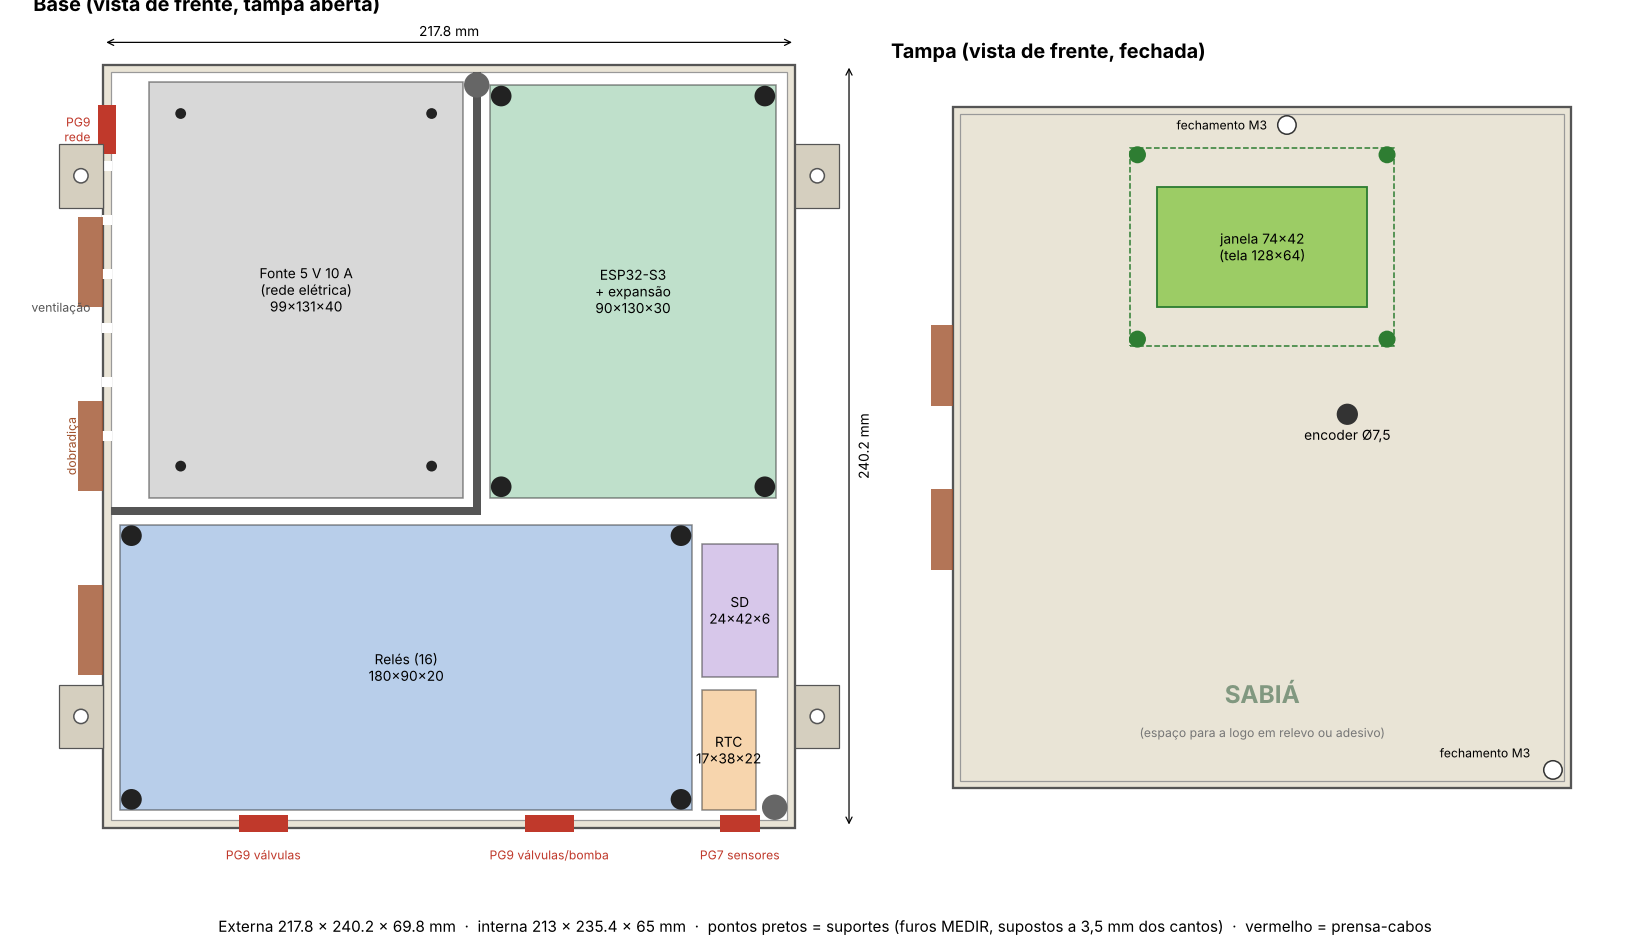
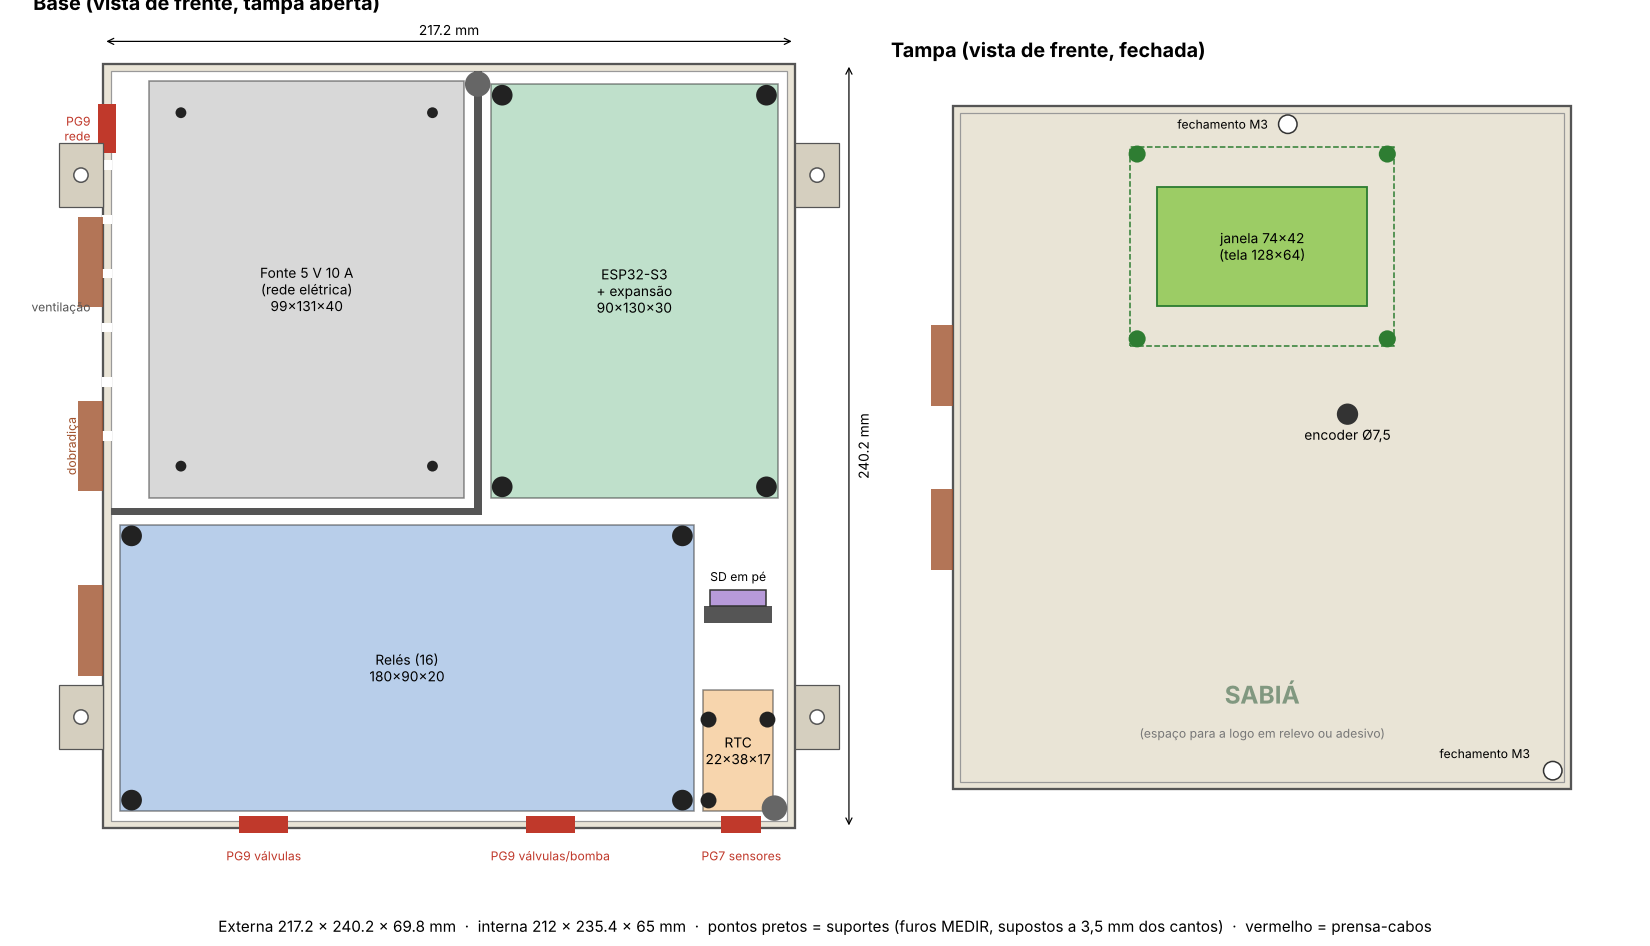
feat: microSD em pé e RTC parafusado na caixa
Claude-Session: https://claude.ai/code/session_01LaK3UAtjrPCuA6B4eXAfcY

diff --git a/tools/leiaute_caixa.py b/tools/leiaute_caixa.py
@@ -6,11 +6,11 @@ import matplotlib.pyplot as plt
 from matplotlib.patches import Rectangle, Circle
 # mesmos parâmetros do caixa.scad
 t=2.4; folga=3; div=2.4; D_in=65; margem=12
-rele=(180,90,20); fonte=(99,131,40); expan=(90,130,30); rtc=(17,38,22); sd=(24,42,6); lcd=(93,70,13.5)
+rele=(180,90,20); fonte=(99,131,40); expan=(90,130,30); rtc=(22,38,17); sd=(17.5,18.5,5); lcd=(93,70,13.5)
 inset=3.5
 h_inf=rele[1]+2*folga; y_sup=h_inf+div; x_div=margem+fonte[0]+folga
 p_rele=(folga,folga); p_fonte=(margem,y_sup+folga); p_expan=(x_div+div+folga,y_sup+folga)
-x_col=folga+rele[0]+folga; p_rtc=(x_col,folga); p_sd=(x_col,folga+rtc[1]+4)
+x_col=folga+rele[0]+folga; p_rtc=(x_col,folga); p_sd=(x_col+(rtc[0]-sd[0])/2,folga+rtc[1]+21)
 W_in=max(p_expan[0]+expan[0]+folga, x_col+max(rtc[0],sd[0])+folga)
 H_in=max(p_fonte[1]+fonte[1], p_expan[1]+expan[1])+folga
 W=W_in+2*t; H=H_in+2*t; P=D_in+t
@@ -39,8 +39,10 @@ cantos=lambda m,i=inset:[(i,i),(m[0]-i,i),(i,m[1]-i),(m[0]-i,m[1]-i)]
 mod(p_rele,rele,"#7FA7D9","Relés (16)",cantos(rele))
 mod(p_fonte,fonte,"#B9B9B9","Fonte 5 V 10 A\n(rede elétrica)",[(c[0],c[1]) for c in cantos(fonte,10)],d=3.4)
 mod(p_expan,expan,"#8CC7A1","ESP32-S3\n+ expansão",cantos(expan))
-mod(p_rtc,rtc,"#F2B36B","RTC")
-mod(p_sd,sd,"#B79AD9","SD")
+mod(p_rtc,rtc,"#F2B36B","RTC",[(1.7,3.4),(1.7,28.8),(20.2,28.8)],d=5)
+ax.add_patch(Rectangle((t+p_sd[0]-2,t+p_sd[1]),sd[0]+4,div+3,fc="#555",ec="none"))
+ax.add_patch(Rectangle((t+p_sd[0],t+p_sd[1]+div+3),sd[0],sd[2],fc="#B79AD9",ec="#333",lw=1))
+ax.text(t+p_sd[0]+sd[0]/2,t+p_sd[1]+div+3+sd[2]+2,"SD em pé",ha="center",va="bottom",fontsize=8)
 for f in fech: ax.add_patch(Circle(f,4,fc="#666",ec="none"))
 # prensa-cabos
 for x,d,n in [(t+3+45,15.5,"PG9 válvulas"),(t+3+135,15.5,"PG9 válvulas/bomba"),(t+x_col+12,12.5,"PG7 sensores")]:

diff --git a/docs/caixa.md b/docs/caixa.md
@@ -29,7 +29,7 @@ A prévia (F5) mostra cores e transparência. A renderização (F6) só serve pa
 
 ![Leiaute da base e da tampa](../hardware/caixa-3d/leiaute.png)
 
-- **Embaixo:** o módulo de 16 relés, com os cabos das válvulas e da bomba saindo pelo fundo da caixa (dois prensa-cabos PG9). Ao lado ficam o RTC e o módulo microSD, e abaixo deles o PG7 dos sensores.
+- **Embaixo:** o módulo de 16 relés, com os cabos das válvulas e da bomba saindo pelo fundo da caixa (dois prensa-cabos PG9). Ao lado ficam o RTC (deitado) e o módulo microSD (em pé), e abaixo deles o PG7 dos sensores.
 - **No alto, à esquerda:** a fonte, num **compartimento isolado** por divisórias, porque é a única parte com 127/220 V. A rede entra pela parede esquerda (PG9), com 12 mm livres para a porca, e as fendas de ventilação ficam na mesma parede. Os fios de 5 V saem por uma passagem junto ao fundo.
 - **No alto, à direita:** a placa de expansão com o ESP32-S3.
 - **Tampa:** a tela centralizada no alto, atrás de um visor de acrílico, e o encoder abaixo e à direita. A dobradiça fica do lado esquerdo e há dois parafusos M3 de fechamento: um no canto de baixo à direita e outro no alto da divisória. O canto de cima à direita ficaria sobre a placa do ESP.
@@ -47,11 +47,12 @@ Os itens marcados **MEDIR** no `caixa.scad` são estimativas. Com um paquímetro
 | `furos_rele` | Centro de cada furo da placa de relés, a partir do canto inferior esquerdo (com a placa na posição da caixa) | 4 cantos, a 3,5 mm das bordas |
 | `furos_expan` | O mesmo, na placa de expansão do ESP | 4 cantos, a 3,5 mm |
 | `furos_fonte` | Furos roscados no fundo da fonte | 4 cantos, a 10 mm |
-| `sd` | Medidas do módulo microSD | 24 × 42 × 6 (estimado) |
+| `furos_rtc` | Centro dos 3 furos do RTC (HW-084) e o diâmetro deles | estimado por foto |
+| `sd_furo_borda` | Do centro dos 2 furos do microSD até a borda da placa do lado dos pinos | 6 mm |
 | `lcd_moldura` | Da frente da moldura da tela até a frente da placa verde | 8,9 mm |
 | `d_encoder` | Diâmetro do eixo roscado do encoder | 7,5 mm (EC11, rosca M7) |
 
-O RTC e o SD não têm furos de fixação conhecidos. Eles ficam num **berço** (uma moldura baixa) e são presos com fita dupla face ou abraçadeira.
+O **RTC** fica deitado sobre 3 suportes, com a pilha virada para a frente, para dar para trocar. O **microSD** (18,5 × 17,5 mm, furos a 14 mm) fica em pé, parafusado numa paredinha: o cartão aponta para a tampa e sai puxando para fora, e os pinos apontam para o ESP.
 
 Depois de trocar as medidas, rode `python3 tools/leiaute_caixa.py` para atualizar o desenho do leiaute. Esse script repete os parâmetros do `.scad`, então mude nos dois.
 
@@ -62,13 +63,12 @@ Depois de trocar as medidas, rode `python3 tools/leiaute_caixa.py` para atualiza
 | Parafuso M3 × 8 autoatarraxante | 8 | Relés e placa de expansão nos suportes |
 | Parafuso M3 × 6 | 4 | Fonte, por baixo do fundo |
 | Parafuso M3 × 14 cabeça chata | 2 | Fechamento da tampa |
-| Parafuso M2.5 × 8 autoatarraxante | 4 | Tela nos suportes da tampa |
+| Parafuso M2.5 × 8 autoatarraxante | 9 | Tela (4), RTC (3) e microSD (2) |
 | Vareta de 3 mm × 145 mm (ou arame/parafuso M3 longo) | 1 | Pino da dobradiça |
 | Prensa-cabos PG9 | 3 | Válvulas, bomba e rede elétrica |
 | Prensa-cabos PG7 | 1 | Sensores |
 | Acrílico transparente 1 mm, 79,5 × 47,5 mm | 1 | Visor da tela |
 | Parafuso 4 mm + bucha 6 | 4 | Fixação na parede |
-| Fita dupla face ou abraçadeira | — | RTC e SD |
 
 ## Impressão
 
